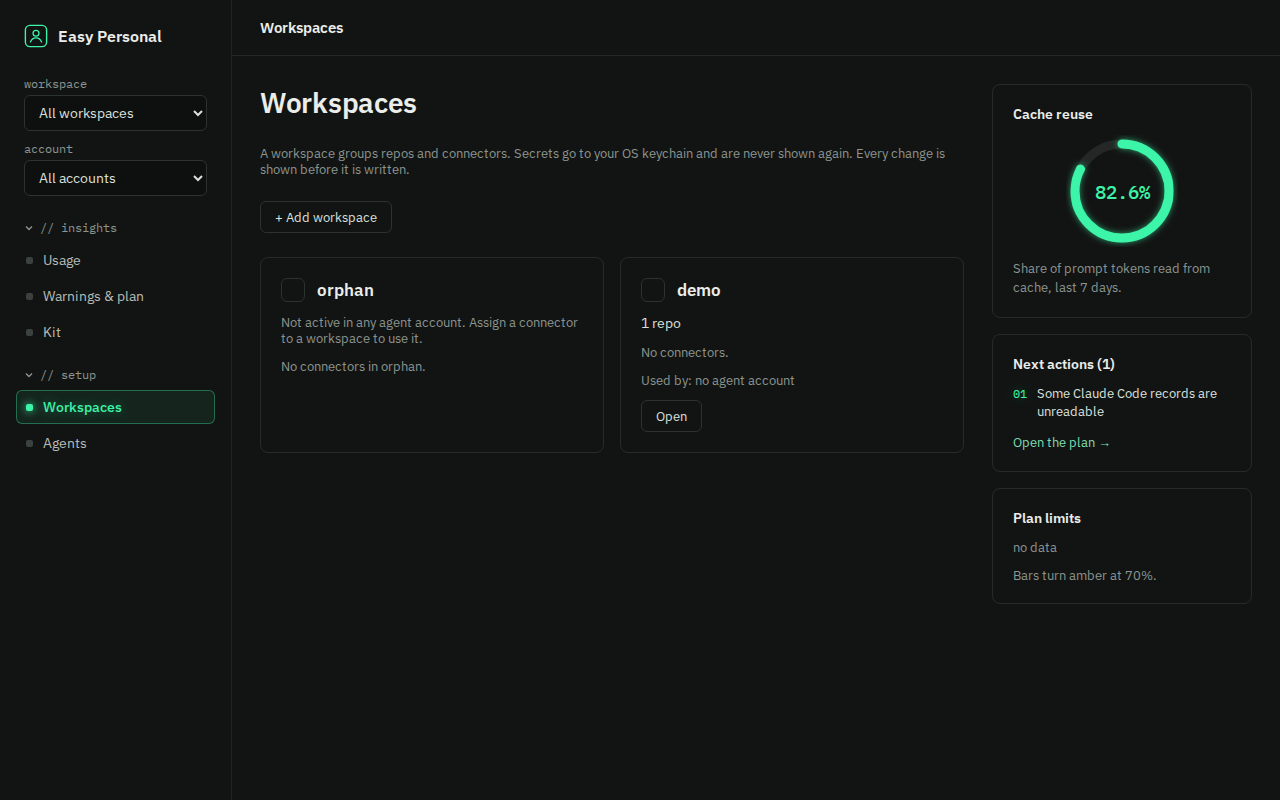
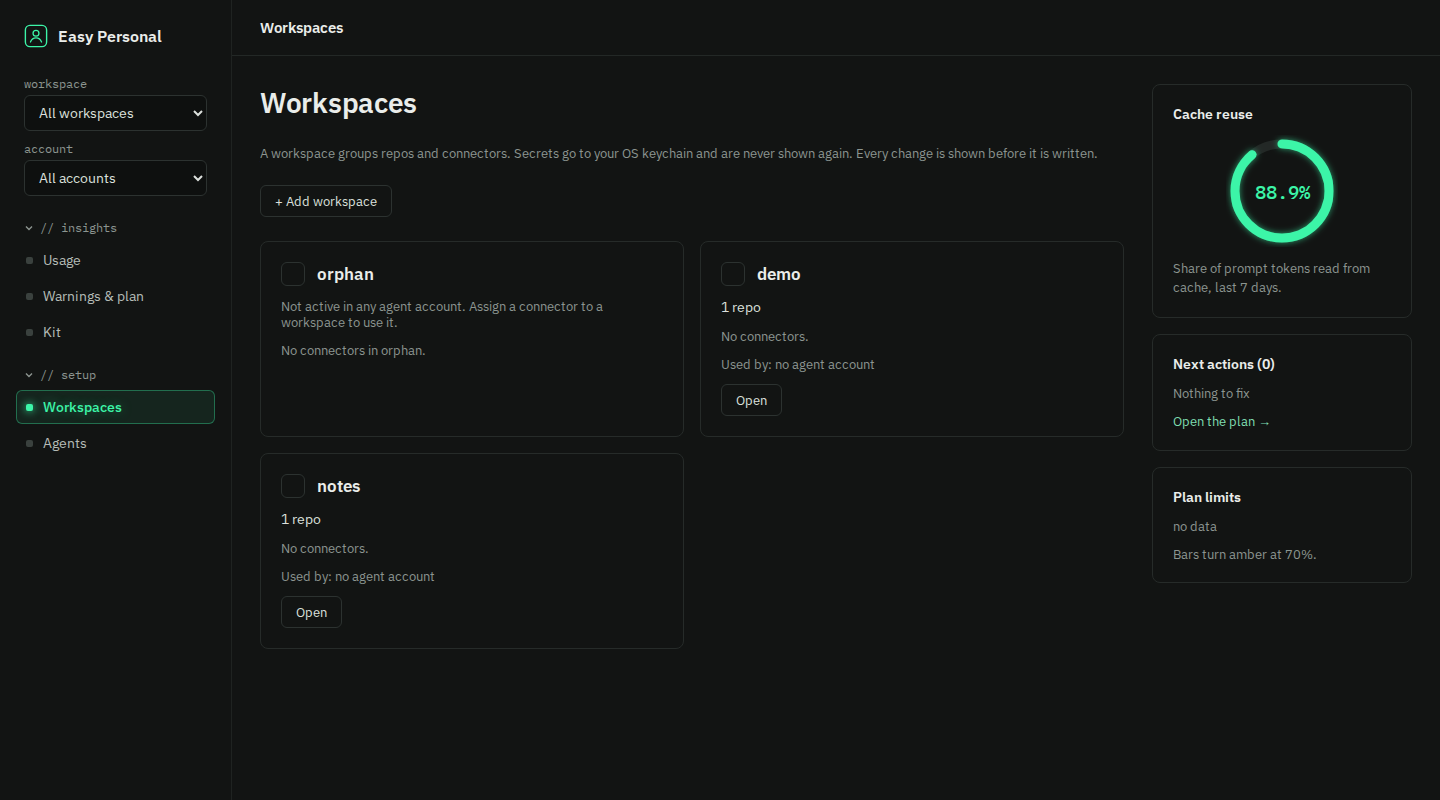
HUN-132: re-shoot dashboard screenshots at 1440 px on a richer fixture (priced models, 7 days, 2 projects, no unreadable records); caption per shot

diff --git a/site/index.html b/site/index.html
@@ -289,12 +289,12 @@
 
 <section id="dashboard">
   <h2>The dashboard</h2>
-  <p>Run <code>easy-personal dashboard</code> to open it. These screenshots use test fixtures, not real usage. The project <code>demo-app</code> is made up.</p>
+  <p>Run <code>easy-personal dashboard</code> to open it. These screenshots use test fixtures, not real usage. The projects <code>demo-app</code> and <code>notes-site</code> are made up.</p>
   <div class="shots">
-    <figure><img src="dashboard-usage.png" width="1280" height="1000" alt="Usage view of the dashboard showing total tokens, messages, cache hit ratio, and breakdowns by day, model and project for the demo-app fixture project, with a cache reuse ring on the right"><figcaption>Usage: totals, breakdowns and outlier sessions.</figcaption></figure>
-    <figure><img src="dashboard-warnings.png" width="1280" height="800" alt="Warnings and plan view listing one rule to watch, with its measured value, why it matters and two numbered fix steps, and a collapsed list of rules that were not checked"><figcaption>Warnings and plan: each rule cites its measured value.</figcaption></figure>
-    <figure><img src="dashboard-kit.png" width="1280" height="800" alt="Kit view with one project card for demo-app that says no kit data yet, a details button, and an easy-ui checks section with no data"><figcaption>Kit: what each kit part left for each project.</figcaption></figure>
-    <figure><img src="dashboard-workspaces.png" width="1280" height="800" alt="Workspaces view with the built-in orphan workspace and a workspace named demo with one repo, no connectors and an open button, next to the sidebar with the workspace and account selectors"><figcaption>Workspaces: group repos and connectors, and set up a provider from the catalog.</figcaption></figure>
+    <figure><img src="dashboard-usage.png" width="1440" height="1000" alt="Usage view of the dashboard for the last 7 days: total tokens, messages, API-equivalent cost in dollars and cache hit ratio, a bar chart of tokens per day, and breakdowns by model and by project for two fixture projects, with a cache reuse ring on the right"><figcaption>Usage: totals, cost, and breakdowns by day, model and project.</figcaption></figure>
+    <figure><img src="dashboard-warnings.png" width="1440" height="800" alt="Warnings and plan view reading all clear with nothing to fix in the last 7 days, and a collapsed list of rules that were not checked"><figcaption>Warnings and plan: a rule that fires shows its measured value. Here none fired.</figcaption></figure>
+    <figure><img src="dashboard-kit.png" width="1440" height="800" alt="Kit view with two project cards, demo-app and notes-site, each saying no kit data yet, a details button, and an easy-ui checks section with no data"><figcaption>Kit: what each kit part left for each project.</figcaption></figure>
+    <figure><img src="dashboard-workspaces.png" width="1440" height="800" alt="Workspaces view listing the built-in orphan workspace and two workspaces named demo and notes, each with one repo, no connectors and an open button"><figcaption>Workspaces: the list of workspaces, with repos and connectors for each.</figcaption></figure>
   </div>
 </section>
 

diff --git a/tasks/TASK_REVIEW_HUN-132.md b/tasks/TASK_REVIEW_HUN-132.md
@@ -48,7 +48,7 @@ Not done: merge (yours); <auto verify: running (T182) | auto verify: <result> | 
 | Review scope bounded to the change's blast radius (affected set, not whole repo) | ☑ pass | code-review 2026-10-29 on `git diff HUN-131...HEAD`: site/index.html (layout, tokens, one inline Copy script), site/fonts/ (5 woff2 + OFL), site/dashboard-*.png (re-shot; connectors → workspaces), tests/test_site_content.py, tests/test_site_theme.py; callers: Vercel static output only. lane_check `lane: C2, 15 files, 976 lines, EXCEEDS (files 15 > 14; lines 976 > 500); unpredicted: tasks/TASK_GUIDE_HUN-132.md` — binaries (fonts, PNGs) and guide/review docs; no relabel. Supervisor viewed `reports/HUN-132/site-1280-viewport.png` (matches family boards) and `site/dashboard-usage.png`. Findings: P0 none; P1 none; P2 3 — (a) public `dashboard-usage.png` is shot on a 1-day unpriced fixture: one full-width bar, `abstained:` cost, an "unreadable records" action, an empty KPI cell at 1280 px; re-shoot on a 7-day priced fixture recommended (conf 100); (b) workspaces screenshot caption mentions the catalog form that is one click deeper (conf 75); (c) `PROJECT_SPEC_SITE.md` look/tech lines and `site/favicon.svg` still describe the old Kit-cyan theme (conf 100). P3 1 — `h2` "Ten MCP tools" not drift-tested (conf 75). security-review not required (Risk Low); inline script reads only page text, no network. 0 fixes applied. |
 | Full smoke suite still green (no regression) | ☑ pass | `829 passed, 5 deselected, 1 xfailed, 1 warning in 108.10s (0:01:48)` |
 | **Companion score (easy-verifier)** | ☑ N/A | Not run by the implementer; the Supervisor runs the companion tools at Stage 4. |
-| **UI: Visual regression (diff or verdict pasted)** | ☑ pass | Host Playwright (easy-ui-mcp `node_modules`; easy-ui is fixed 1280x720) on `python3 -m http.server` of `site/`. 1280 px viewport: `/home/hungnguyenhuu/workspace/pets/hungnguyen111/easy-personal-mcp-wt/HUN-132/reports/HUN-132/site-1280-viewport.png`; sections: `site-1280-flow.png`, `site-1280-dashboard.png`, `site-1280-connectors.png`. Verdict by reading the images against `Memory-Mint.dc.html` / `Graphite-Mint.dc.html`: 64 px header (brand mark with line glow, mono version pill, family nav with accent dot + dot glow on Easy Personal, bordered GitHub button), 248 px aside with `// overview` / `// getting started` / `// reference` and the accent-tinted current item with inset ring, mono `>` eyebrow with neon text, 44 px / 600 h1, accent primary button with glow, install box (`#0E100F`, control border, glow shadow) with Copy, 3-cell bordered stat strip, numbered-step flow lanes, tool table, connector cards. Measured: header 64 px, aside 248 px, main padding 48/56 px, h1 44 px / 600, button bg `rgb(60, 245, 168)` text `rgb(14, 16, 15)` with box-shadow. Copy test: click -> `Copied` -> `Copy` after 2.1 s; clipboard = the 4 install lines. Dashboard re-shot (neon build, fixture data `tests/fixtures/claude_code`, dates shifted, empty HOME, fake `claude`): `site/dashboard-usage.png`, `-warnings.png`, `-kit.png`, `-workspaces.png` (each <= 107 KB; read: only `demo-app`, `claude-fixture-model-1`, `/work/demo-app` fixture paths, no email or token). Old `dashboard-connectors.png` removed: the new dashboard has no Connectors tab (connectors live in a workspace). |
+| **UI: Visual regression (diff or verdict pasted)** | ☑ pass | Host Playwright (easy-ui-mcp `node_modules`; easy-ui is fixed 1280x720) on `python3 -m http.server` of `site/`. 1280 px viewport: `/home/hungnguyenhuu/workspace/pets/hungnguyen111/easy-personal-mcp-wt/HUN-132/reports/HUN-132/site-1280-viewport.png`; sections: `site-1280-flow.png`, `site-1280-dashboard.png`, `site-1280-connectors.png`. Verdict by reading the images against `Memory-Mint.dc.html` / `Graphite-Mint.dc.html`: 64 px header (brand mark with line glow, mono version pill, family nav with accent dot + dot glow on Easy Personal, bordered GitHub button), 248 px aside with `// overview` / `// getting started` / `// reference` and the accent-tinted current item with inset ring, mono `>` eyebrow with neon text, 44 px / 600 h1, accent primary button with glow, install box (`#0E100F`, control border, glow shadow) with Copy, 3-cell bordered stat strip, numbered-step flow lanes, tool table, connector cards. Measured: header 64 px, aside 248 px, main padding 48/56 px, h1 44 px / 600, button bg `rgb(60, 245, 168)` text `rgb(14, 16, 15)` with box-shadow. Copy test: click -> `Copied` -> `Copy` after 2.1 s; clipboard = the 4 install lines. Dashboard re-shot (Stage 4 follow-up, 2026-10-29T16:25Z) at a 1440 px viewport so the 4 KPI tiles share one row, from the HUN-131 neon build on a synthetic fixture: 72 messages in 20 sessions over 7 consecutive days (varied daily totals), 2 projects (`demo-app`, `notes-site`), priced models `claude-sonnet-5-5`, `claude-haiku-5-5`, `claude-opus-5-5` (so API-equivalent cost shows `$4.16`, not `abstained:`), no unreadable records (Next actions (0), Warnings shows "All clear"). Run with an empty temp HOME (no real `~/.claude*`), a fake `claude` on PATH and a generator script in the session scratchpad. Files: `/home/hungnguyenhuu/workspace/pets/hungnguyen111/easy-personal-mcp-wt/HUN-132/site/dashboard-usage.png` (135 KB), `dashboard-warnings.png` (65 KB), `dashboard-kit.png` (81 KB), `dashboard-workspaces.png` (82 KB). I opened each PNG: only fixture names (`demo-app`, `notes-site`, `/work/...` not shown), no email, token or host path. The `<img>` width/height attributes are 1440 x 1000 / 800, alt texts and captions describe what each shot shows (Workspaces caption: the workspace list only). Site tests after the change: `55 passed in 0.56s`. Old `dashboard-connectors.png` removed: the new dashboard has no Connectors tab (connectors live in a workspace). |
 | **UI: Design-system compliance (tokens/colors/typography verified)** | ☑ pass | Theme test: all 16 color tokens + 5 glow tokens pinned, no raw color outside `:root`, text tokens >= 4.5:1 on `#121413` (faint `#6e7772` is 4.0:1 so it is not used). Playwright computed style at 1280: body font `"IBM Plex Sans", system-ui…`, eyebrow `"IBM Plex Mono", ui-monospace…`, `document.fonts` = `IBM Plex Sans 400/500/600 loaded`, `IBM Plex Mono 400/500 loaded` (all served from `site/fonts/`). Network log: `requests 10 origins ["http://127.0.0.1:8137"] errors []` at 375, 768 and 1280 px (no off-origin request; log in `/home/hungnguyenhuu/workspace/pets/hungnguyen111/easy-personal-mcp-wt/HUN-132/reports/HUN-132/site-check.log`). |
 | **UI: Responsiveness at target viewports** | ☑ pass | `/home/hungnguyenhuu/workspace/pets/hungnguyen111/easy-personal-mcp-wt/HUN-132/reports/HUN-132/site-check.log`. 375 px: `doc":[375,375]` (no horizontal scroll; first run showed `[535,375]` from the install box `pre` in a column flex, fixed with `align-items: stretch`), aside stacked above main as a wrapping link row, header nav wraps (172 px tall), tool table scrolls in its box (`tableWrap [456,341,"auto"]`), 6 `pre` blocks scroll in their own boxes, `cardsOverflow 0`. 768 px: `[768,768]`, `cardsOverflow 0`. 1280 px: `[1280,1280]`. Screenshots: `site-375.png`, `site-375-top.png`, `site-375-tools.png`, `site-375-flow.png`, `site-768.png`, `site-768-top.png`, `site-1280.png`. |
 
